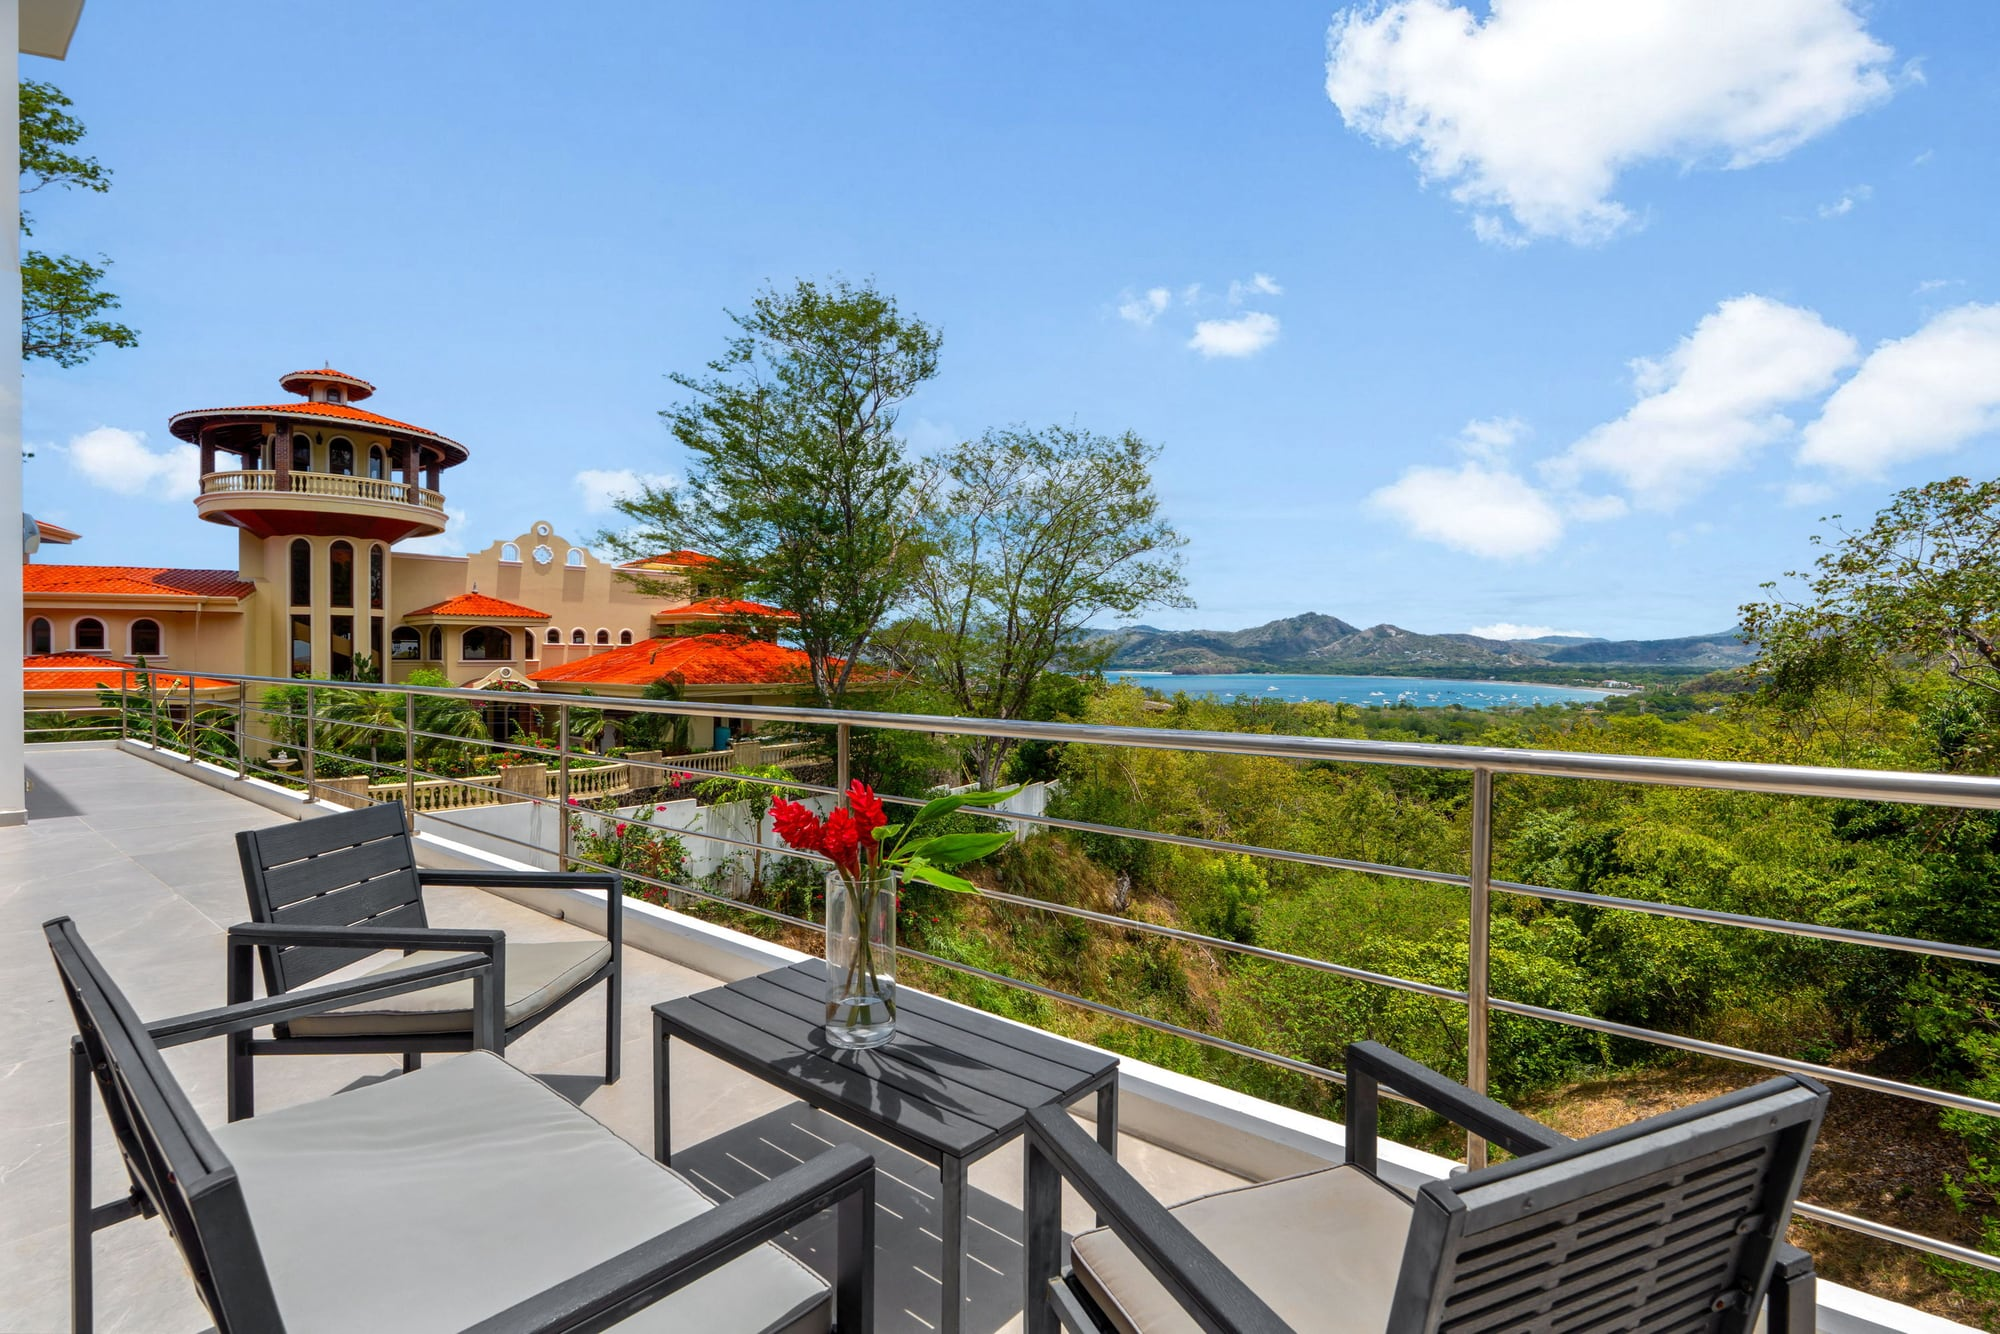
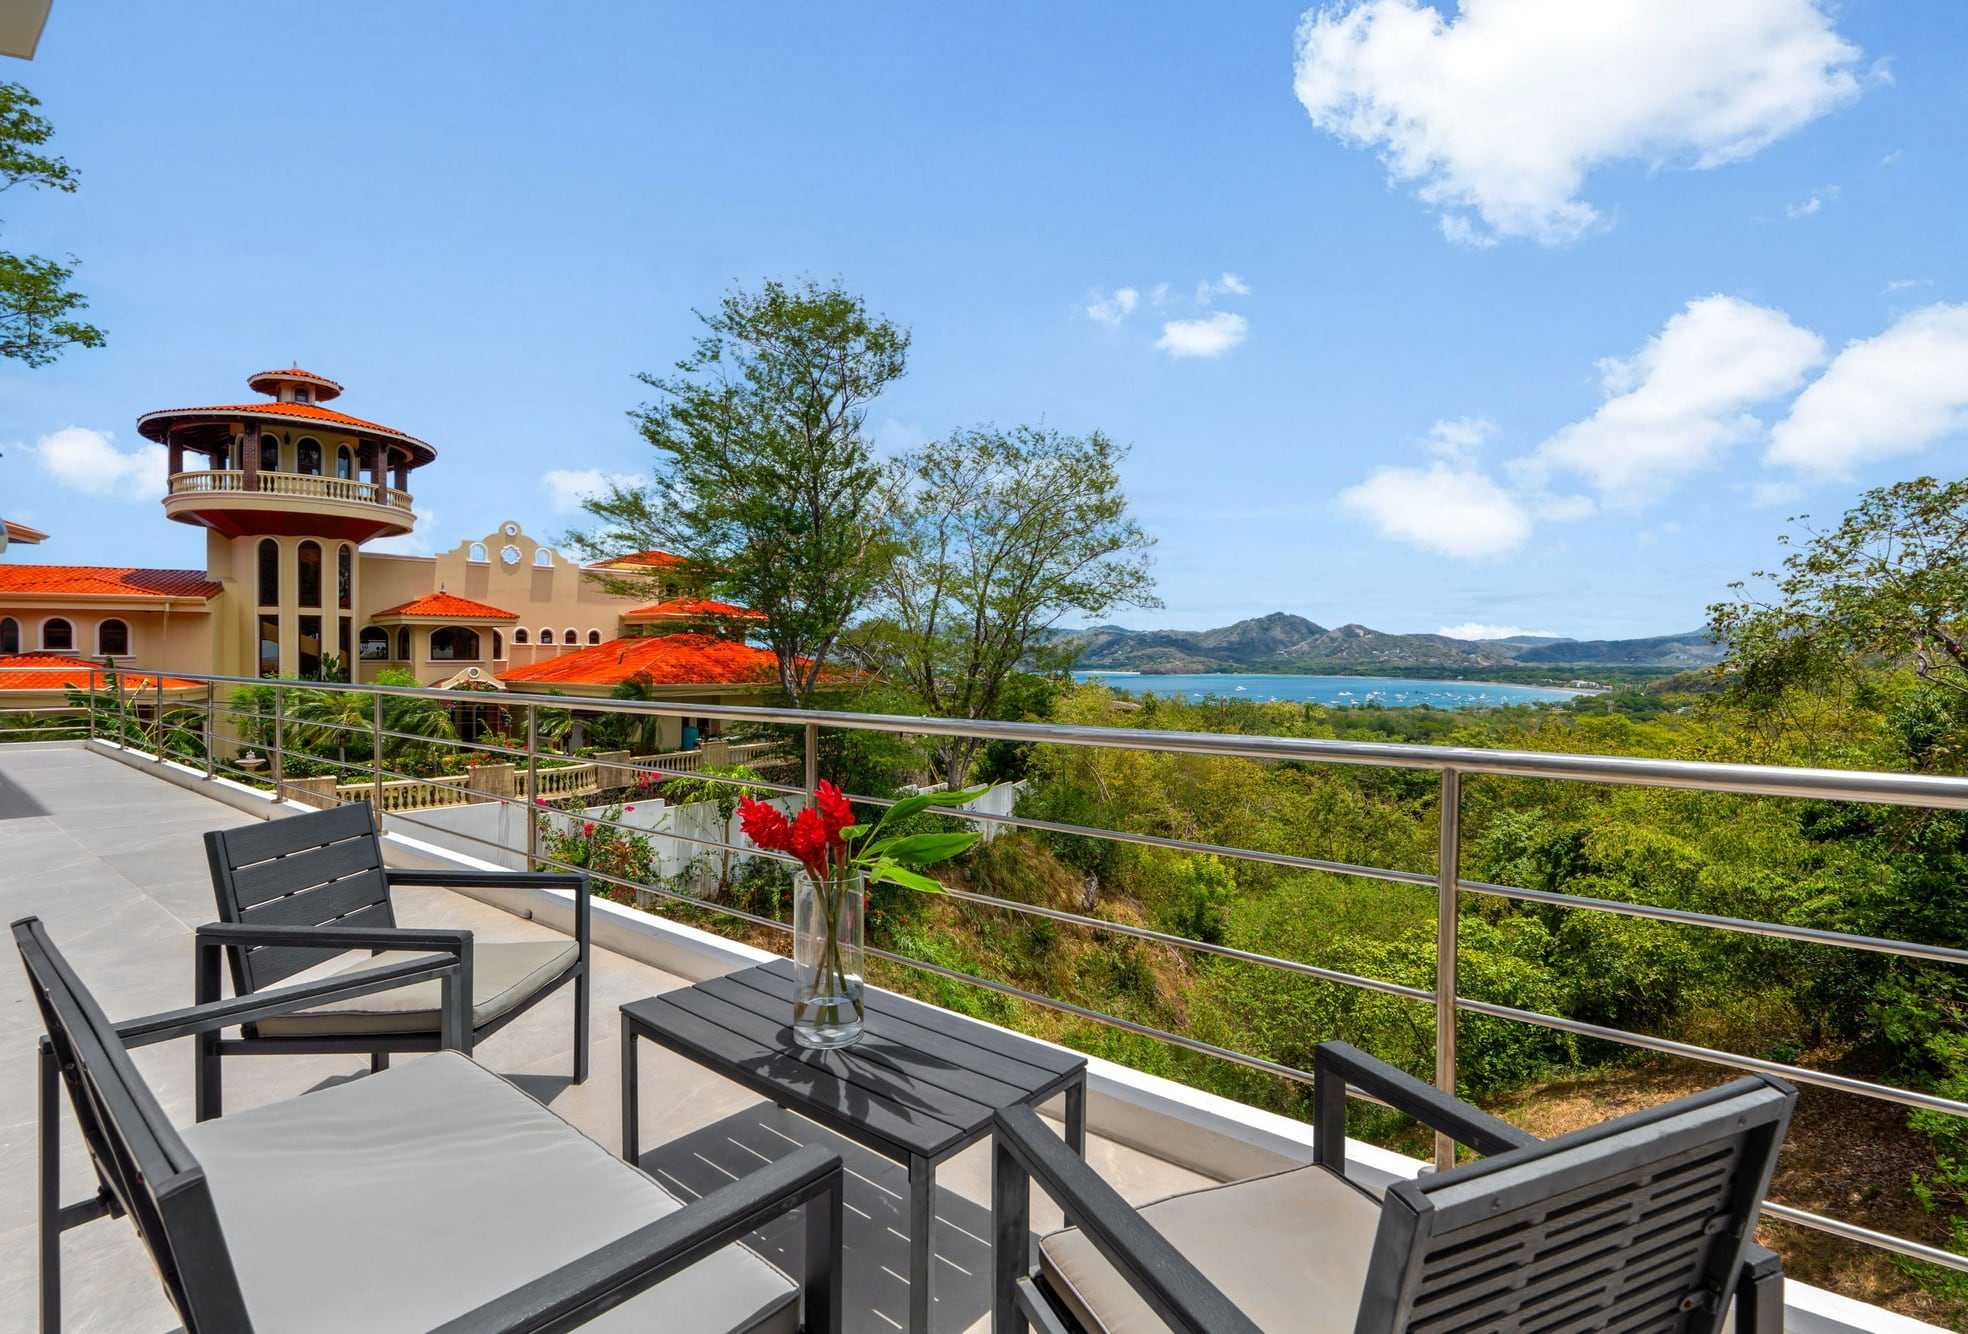
fix(book): no pale strip down the left of the hero
gallery-pool-12.jpg had a white pillar in its first ~22 pixel columns.
Once the hero's zoom settles at scale(1), the photo's edges come into view
on wide screens and the pillar read as an exposed strip under the navy
overlay (book.html is the only hero using this photo). The photo is
trimmed by 32px on the left (two 16px JPEG blocks, re-saved with its own
quantisation tables and subsampling: mean difference under one level), and
its width attributes on book.html and gallery.html are now 1968.

Claude-Session: https://claude.ai/code/session_01HHXqeVswUWb5rhC4tvhv99

diff --git a/casaninaflamingo.com/gallery.html b/casaninaflamingo.com/gallery.html
@@ -196,7 +196,7 @@
           <a class="tour__item" href="images/gallery-pool-09.jpg" data-lightbox="pool"><img src="images/gallery-pool-09.jpg" alt="The rooftop terrace with its dining table, sofas and umbrella at Casa Nina Flamingo" width="1600" height="1067" loading="lazy" decoding="async" data-slot="pool-09"></a>
           <a class="tour__item" href="images/gallery-pool-10.jpg" data-lightbox="pool"><img src="images/gallery-pool-10.jpg" alt="The rooftop lounge and grill at sunset, the bay below at Casa Nina Flamingo" width="1600" height="1067" loading="lazy" decoding="async" data-slot="pool-10"></a>
           <a class="tour__item" href="images/gallery-pool-11.jpg" data-lightbox="pool"><img src="images/gallery-pool-11.jpg" alt="The rooftop lounge under the umbrella, looking out over the bay at Casa Nina Flamingo" width="1600" height="1067" loading="lazy" decoding="async" data-slot="pool-11"></a>
-          <a class="tour__item tour__item--wide" href="images/gallery-pool-12.jpg" data-lightbox="pool"><img src="images/gallery-pool-12.jpg" alt="Balcony chairs and red ginger flowers, with the bay and the hills beyond at Casa Nina Flamingo" width="2000" height="1334" loading="lazy" decoding="async" data-slot="pool-12"></a>
+          <a class="tour__item tour__item--wide" href="images/gallery-pool-12.jpg" data-lightbox="pool"><img src="images/gallery-pool-12.jpg" alt="Balcony chairs and red ginger flowers, with the bay and the hills beyond at Casa Nina Flamingo" width="1968" height="1334" loading="lazy" decoding="async" data-slot="pool-12"></a>
       </div>
     </div>
   </section>
@@ -308,7 +308,7 @@
           <a class="tour__item" href="images/gallery-pool-10.jpg" data-lightbox="rooftop"><img src="images/gallery-pool-10.jpg" alt="The rooftop lounge and grill at sunset, the bay below at Casa Nina Flamingo" width="1600" height="1067" loading="lazy" decoding="async" data-slot="rooftop-09"></a>
           <a class="tour__item" href="images/gallery-pool-08.jpg" data-lightbox="rooftop"><img src="images/gallery-pool-08.jpg" alt="Dinner outside on the patio at sunset, the pool and the hills beyond at Casa Nina Flamingo" width="1600" height="1067" loading="lazy" decoding="async" data-slot="rooftop-10"></a>
           <a class="tour__item" href="images/gallery-views-01.jpg" data-lightbox="rooftop"><img src="images/gallery-views-01.jpg" alt="Playa Flamingo bay from the villa: the anchorage, the beach and the hills beyond the trees at Casa Nina Flamingo" width="1600" height="1067" loading="lazy" decoding="async" data-slot="rooftop-11"></a>
-          <a class="tour__item tour__item--wide" href="images/gallery-pool-12.jpg" data-lightbox="rooftop"><img src="images/gallery-pool-12.jpg" alt="Balcony chairs and red ginger flowers, with the bay and the hills beyond at Casa Nina Flamingo" width="2000" height="1334" loading="lazy" decoding="async" data-slot="rooftop-12"></a>
+          <a class="tour__item tour__item--wide" href="images/gallery-pool-12.jpg" data-lightbox="rooftop"><img src="images/gallery-pool-12.jpg" alt="Balcony chairs and red ginger flowers, with the bay and the hills beyond at Casa Nina Flamingo" width="1968" height="1334" loading="lazy" decoding="async" data-slot="rooftop-12"></a>
       </div>
     </div>
   </section>

diff --git a/casaninaflamingo.com/book.html b/casaninaflamingo.com/book.html
@@ -100,7 +100,7 @@
     <div class="xp-hero__img">
       <img class="xp-media__photo" src="images/gallery-pool-12.jpg"
         alt="Balcony chairs and red ginger flowers at Casa Nina Flamingo, with Playa Flamingo bay and the hills beyond"
-        width="2000" height="1334" loading="eager" fetchpriority="high" decoding="async" onerror="this.remove()">
+        width="1968" height="1334" loading="eager" fetchpriority="high" decoding="async" onerror="this.remove()">
     </div>
     <div class="xp-hero-overlay" aria-hidden="true"></div>
     <div class="xp-wrap xp-hero__inner fade-in">
